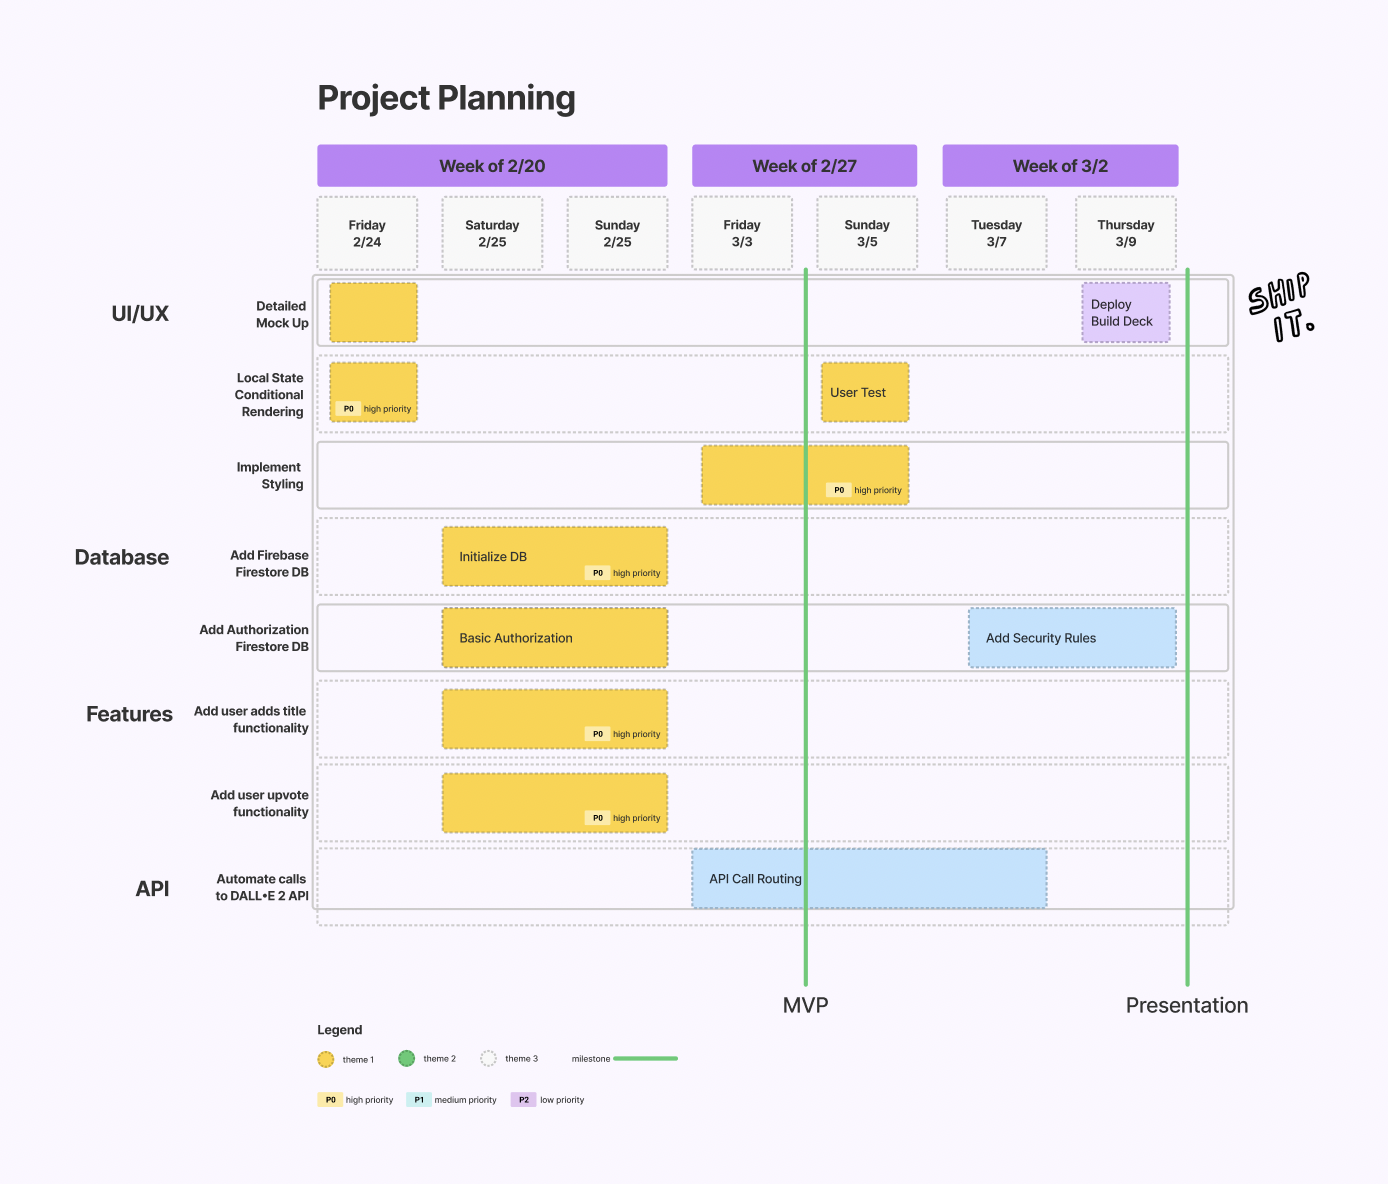
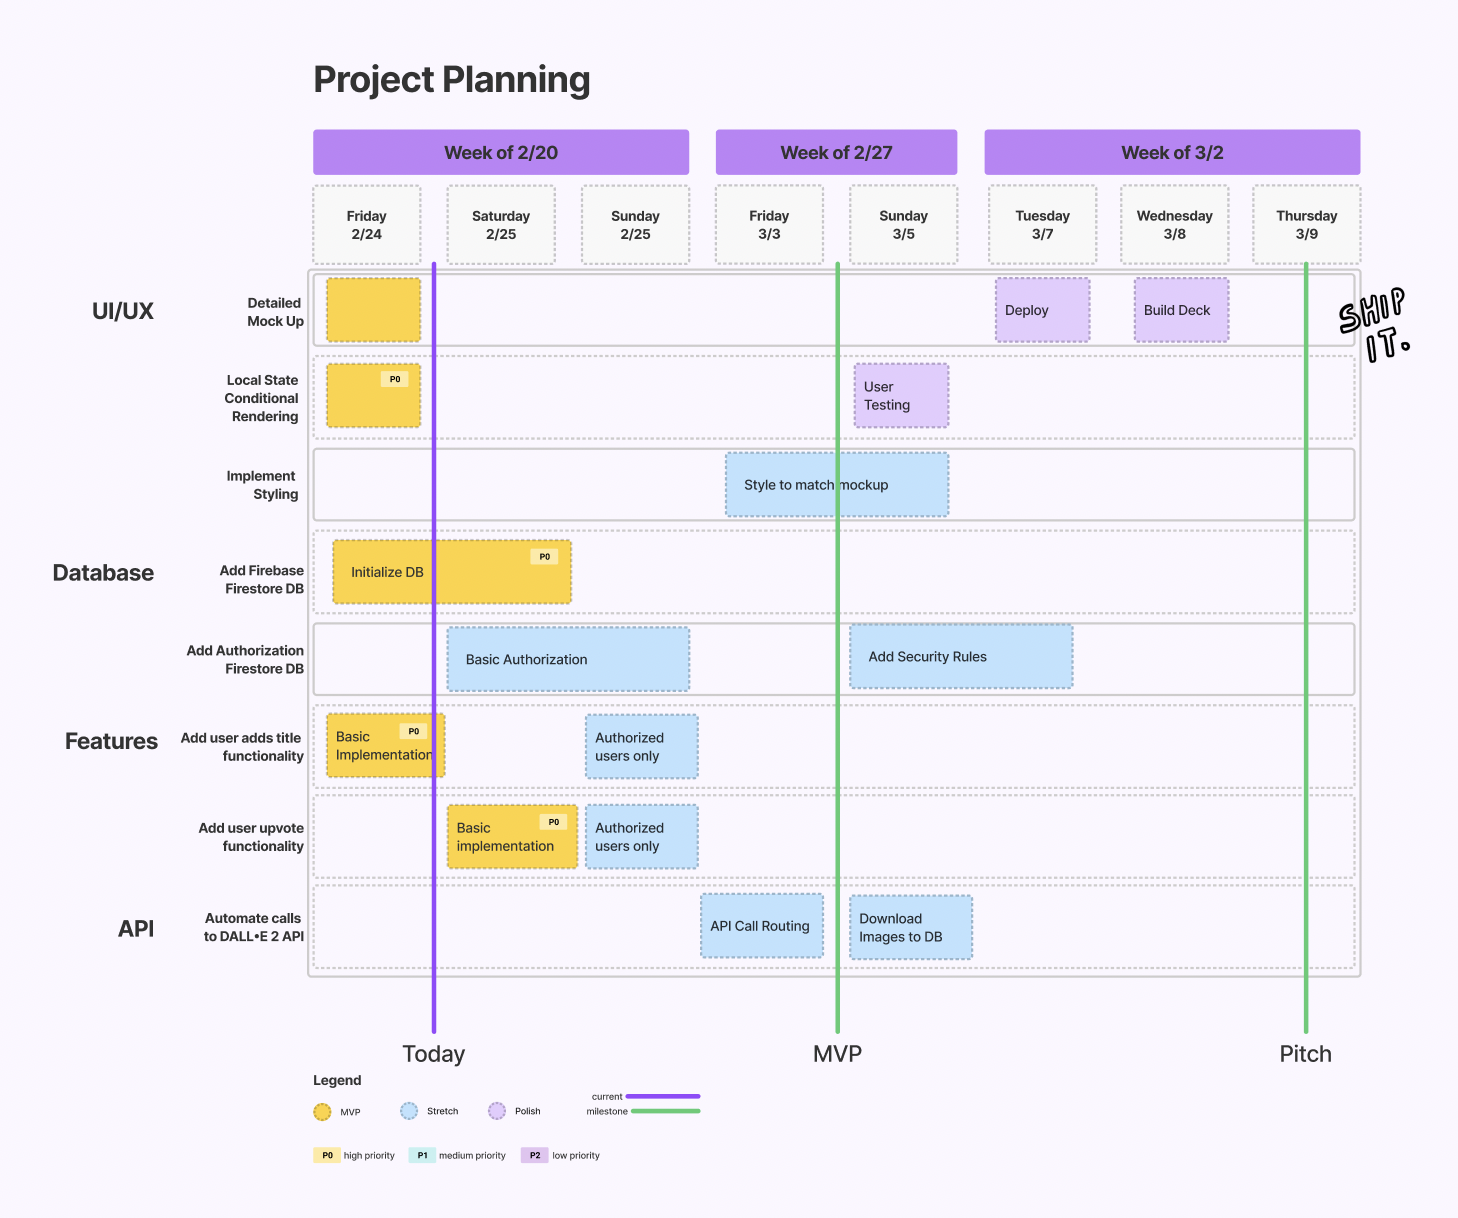
add updated roadmap, reword project tagline

Changed region(s): [[0.031, 0.0312, 0.9604, 0.9688], [0.031, 0.4688, 0.1239, 0.5], [0.062, 0.25, 0.1239, 0.2812]]

diff --git a/README.md b/README.md
@@ -2,7 +2,7 @@
 
 #### By Kirsten Opstad
 
-#### A web app that <!-- generates, --> displays and exhibitions of fake art
+#### A web app that <!-- generates, --> displays and exhibits fake art
 
 <!-- #### [Check out the live site](https://kirstenopstad.github.io/local-business/)! -->
 
@@ -126,7 +126,7 @@ __User stories:__
 |2/17|5:05p| Working on piping seedData to functional components using store |
 |2/24|8:05a| Update README to reflect big picture, roadmap and revised data organization |
 |2/24|9:00a| Refactor seedData to match new data org and update ExhList components |
-|2/24|9:23a| __Key Learning:__ DALLE•2 doesn't persist data, need to solve img storage |
+|2/24|9:23a| __Important:__ DALLE•2 doesn't persist data, need to solve img storage |
 |2/24|10:08a| Regen and import img files to exhSeedData |
 |2/24|11:30a| Route data to ExhList & ExhDetail components + disp mostPopVote func |
 |2/24|11:47a| Populate all ExhControl components with seedData |
@@ -134,6 +134,8 @@ __User stories:__
 |2/24|2:09p| Add bootstrap and basic styling |
 |2/24|3:03p| Work in progress: add Firebase/Firestore on feature branch |
 |2/24|4:16p| Successfully link firebase to project |
+|2/24|4:51p| Add user comment & store in firebase |
+|2/24|10:45a| Update roadmap & tagline in README |
 <!-- |date|time|data13| -->
 
 ### Project Links
